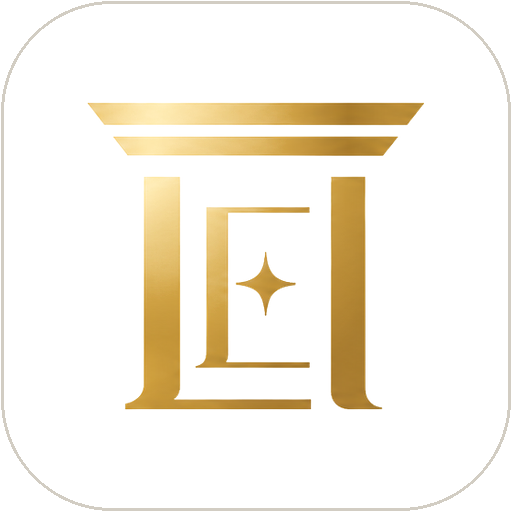
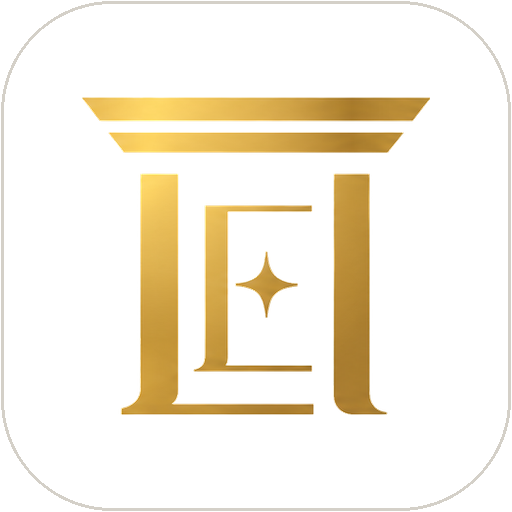
로고 선명화(이진 알파) + UI 골드 절제(뉴트럴 차콜 액센트)
- 투명화 알파 이진 처리로 로고 뿌옇게 깨지던 문제 수정, 4배 해상도 저장
- 파비콘·엠블럼 재생성
- 골드는 CTA·히어로 강조·다크 라벨에만, 아이콘·링크·틴트는 뉴트럴로

Changed region(s): [[0.1562, 0.1875, 0.8438, 0.8125], [0.5, 0.5312, 0.5938, 0.625], [0.5, 0.5, 0.5312, 0.5312]]

diff --git a/app/static/css/site.css b/app/static/css/site.css
@@ -6,11 +6,11 @@
 
 :root{
   --ink:#1c1b18; --ink-2:#63615b; --ink-3:#9c998f;
-  --line:#e7e5df; --line-2:#f1f0ec;
-  --paper:#ffffff; --paper-2:#f8f7f4;
-  --green:#26241f; --green-2:#8f6f38; --green-bright:#b98f4a;
+  --line:#e6e5e1; --line-2:#f1f0ee;
+  --paper:#ffffff; --paper-2:#f7f7f5;
+  --green:#232220; --green-2:#4c4a44; --green-bright:#b98f4a;
   --green-dark:#191813; --green-deep:#121109;
-  --mint:#f4efe4; --mint-2:#e6dcc4;
+  --mint:#f2f1ee; --mint-2:#e3e1dc;
   --gold:#a5854c; --gold-2:#84683a;
   /* 구명칭 별칭 */
   --navy:var(--green); --navy-2:var(--green-2); --red:var(--green-2);
@@ -41,8 +41,8 @@ p{margin:0}
 .sec-head{margin-bottom:42px}
 .sec-head .label{display:inline-flex;align-items:center;gap:8px;font-size:13px;font-weight:700;color:var(--green-2);margin-bottom:12px}
 .sec-head .label::before{content:"";width:22px;height:2px;background:var(--green-2)}
-.sec.dark .sec-head .label{color:#d8b878}
-.sec.dark .sec-head .label::before{background:#d8b878}
+.sec.dark .sec-head .label{color:#cfb27e}
+.sec.dark .sec-head .label::before{background:#cfb27e}
 .sec-head h2{margin-bottom:12px}
 .sec-head.center{text-align:center}
 .sec-head.center .label::before{display:none}
@@ -85,7 +85,7 @@ p{margin:0}
 .hdr.scrolled{box-shadow:0 6px 24px rgba(40,36,24,.08);border-bottom-color:var(--line-2)}
 .hdr .wrap{display:flex;align-items:center;height:76px;gap:26px}
 .logo{display:flex;align-items:center;white-space:nowrap}
-.logo img{height:46px;width:auto;display:block}
+.logo img{height:44px;width:auto;display:block;image-rendering:auto}
 .logo small{display:block;font-weight:600;font-size:10.5px;color:var(--ink-3);letter-spacing:.2em;line-height:1.2;margin-top:2px}
 .gnb{display:flex;gap:4px;font-weight:600;font-size:15px;margin-left:auto}
 .gnb a{padding:9px 13px;border-radius:9px;transition:color .15s,background .15s;white-space:nowrap;color:var(--ink-2)}
@@ -182,7 +182,7 @@ p{margin:0}
 .cards{display:grid;grid-template-columns:repeat(3,1fr);gap:26px}
 .cards.four{grid-template-columns:repeat(4,1fr)}
 .card{background:#fff;border:1px solid var(--line);border-radius:20px;padding:40px 34px;position:relative;overflow:hidden;transition:transform .28s cubic-bezier(.2,.65,.3,1),box-shadow .28s,border-color .28s}
-.card::before{content:"";position:absolute;left:0;right:0;top:0;height:4px;background:linear-gradient(90deg,var(--green-2),var(--green-bright));transform:scaleX(0);transform-origin:left;transition:transform .35s cubic-bezier(.2,.65,.3,1)}
+.card::before{content:"";position:absolute;left:0;right:0;top:0;height:4px;background:var(--green-bright);transform:scaleX(0);transform-origin:left;transition:transform .35s cubic-bezier(.2,.65,.3,1)}
 .card:hover::before{transform:scaleX(1)}
 .card:hover{transform:translateY(-8px);box-shadow:var(--shadow-lg);border-color:var(--mint-2)}
 .card .num{display:inline-flex;align-items:center;justify-content:center;width:48px;height:48px;border-radius:14px;background:var(--mint);color:var(--green-2);font-weight:800;font-size:20px;margin-bottom:22px}
@@ -311,7 +311,7 @@ p{margin:0}
 .quiz{background:#fff;color:var(--ink);border-radius:22px;max-width:740px;margin:0 auto;padding:46px 42px;box-shadow:var(--shadow-lg)}
 .quiz .qnum{font-size:12.5px;font-weight:800;letter-spacing:.1em;color:var(--green-2);margin-bottom:10px}
 .quiz .bar{height:5px;background:var(--line-2);border-radius:99px;margin-bottom:26px;overflow:hidden}
-.quiz .bar i{display:block;height:100%;background:linear-gradient(90deg,var(--green-2),var(--green-bright));border-radius:99px;transition:width .4s cubic-bezier(.2,.65,.3,1)}
+.quiz .bar i{display:block;height:100%;background:var(--green-bright);border-radius:99px;transition:width .4s cubic-bezier(.2,.65,.3,1)}
 .quiz h3{font-size:23px;font-weight:800;margin-bottom:26px;min-height:66px}
 .quiz .opts{display:grid;gap:10px}
 .quiz .opts button{text-align:left;border:1px solid var(--line);border-radius:14px;background:#fff;padding:18px 22px;font:inherit;font-size:16.5px;font-weight:600;color:var(--ink-2);cursor:pointer;transition:border-color .15s,background .15s,color .15s,transform .15s}
@@ -527,4 +527,4 @@ body.nav-open .gnb a{padding:15px 4px;border-bottom:1px solid var(--line-2);bord
 }
 
 /* 스크롤 진행바 */
-#progress{position:fixed;top:0;left:0;height:3px;width:0;background:linear-gradient(90deg,var(--green-2),var(--green-bright));z-index:100;pointer-events:none}
+#progress{position:fixed;top:0;left:0;height:3px;width:0;background:var(--green-bright);z-index:100;pointer-events:none}

diff --git a/CLAUDE.md b/CLAUDE.md
@@ -51,7 +51,8 @@ seed/                (Phase 3) dong.csv, job.csv, faq.csv
 - FAQPage JSON-LD는 `partials/faq_jsonld.html` (동·구·직업·상황 페이지 head에 포함).
 
 ### 2026-09-21 대규모 수정 (원문: Downloads/사이트(수정).hwpx — 의뢰인 수정요청서)
-- **팔레트 재변경: 차콜+골드 (최종)** — 공식 로고(Downloads/엠블럼/레이.png, 골드)에 맞춰 네이비/블루 폐기. --green*/--mint* 변수 실값이 이제 차콜(#26241f)·골드(#b98f4a)·골드틴트임. 골드 배경 버튼(.btn.gold/.red)은 **어두운 글자**(#1c1b16).
+- **팔레트 (최종): 화이트/차콜 뉴트럴 + 골드는 포인트만** — 공식 로고(골드)에 맞추되, UI 전반에 골드를 깔면 "AI스럽다" 피드백(9-21) → 골드는 **로고·CTA 버튼(--green-bright)·히어로 강조(em/kicker)·다크섹션 라벨**에만. 액센트/아이콘/링크(--green-2)는 차콜(#4c4a44), 틴트(--mint)는 뉴트럴 그레이. 골드 배경 버튼은 어두운 글자(#1c1b16).
+- **로고 투명화 주의**: 흰배경 로고를 투명화할 때 밝기 비례 알파를 쓰면 골드 중간톤까지 반투명해져 로고가 뿌옇게 깨짐 → **알파는 거의 이진**(밝기 232 이하 완전 불투명, 232~246만 램프)으로 처리할 것. logo.png는 표시폭의 4배(920px)로 저장.
 - **로고**: `img/logo.png`(가로형, 흰배경→투명 처리), `img/emblem.png`(기둥 엠블럼). 헤더·푸터에 이미지 로고, 파비콘=흰 라운드+엠블럼. OG도 로고 포함 재생성.
 - **브랜드명 "수원개인회생파산 법률사무소 레이"** / 주소 **1002호** / **24시간 상담·주말 예약제**.
 - **"무료" 표현 전면 금지(변호사법, 의뢰인 지시)** — 무료상담·상담무료 등 사용 불가. 대체: "전국 비대면 상담", "익명 상담". 전 템플릿·시드에서 제거 완료, 재도입 금지.
